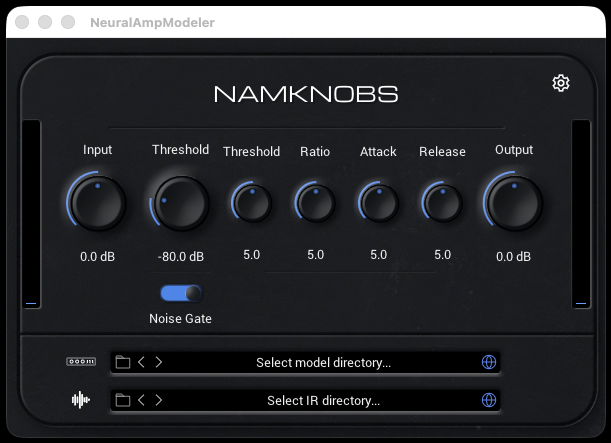
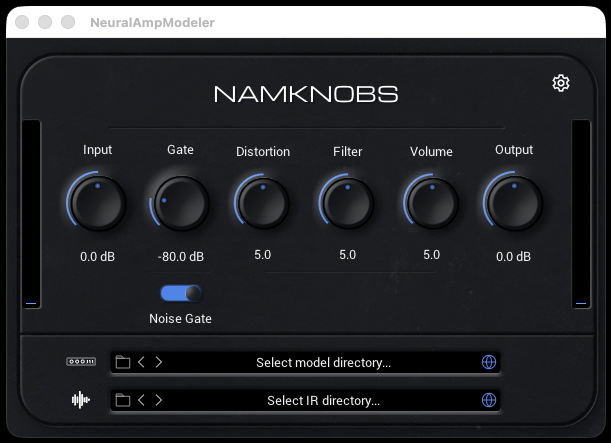
README: use the clean RAT shot as the hero image
The Gate relabel landed (verified in the fresh CI screenshot: Input | Gate |
Distortion | Filter | Volume | Output, no duplicate Threshold). Swap the README
preview to the RAT capture -- a cleaner, more representative pedal layout -- and
update the caption.

Claude-Session: https://claude.ai/code/session_01GQyeZTscWacJXCC6bovGDA

diff --git a/README.md b/README.md
@@ -6,9 +6,9 @@
 
 > **[⬇ Download the latest release](https://github.com/drockthedoc/NAMKnobs-plugin/releases/latest)** — VST3 + AU (macOS) / VST3 (Windows), plus 7 pedal models. See **[INSTALL_NAMKNOBS.md](INSTALL_NAMKNOBS.md)**.
 
-<p align="center"><img src="docs/namknobs-ui.png" alt="NAMKnobs UI with the Compressor model loaded — Threshold / Ratio / Attack / Release knobs" width="460"></p>
+<p align="center"><img src="docs/namknobs-ui.png" alt="NAMKnobs UI with the RAT model loaded — Distortion / Filter / Volume knobs" width="460"></p>
 
-*Above: the Compressor model loaded — the plugin shows that pedal's four knobs (Threshold / Ratio / Attack / Release). Load the RAT and you'd see Distortion / Filter / Volume instead. (Screenshot captured automatically in CI.)*
+*Above: the RAT model loaded — the plugin shows exactly that pedal's knobs (**Distortion / Filter / Volume**). Load the Compressor instead and you'd get Threshold / Ratio / Attack / Release; the amp EQ is hidden while a pedal is loaded. (Screenshot captured automatically in CI.)*
 
 ## What makes it different
 
